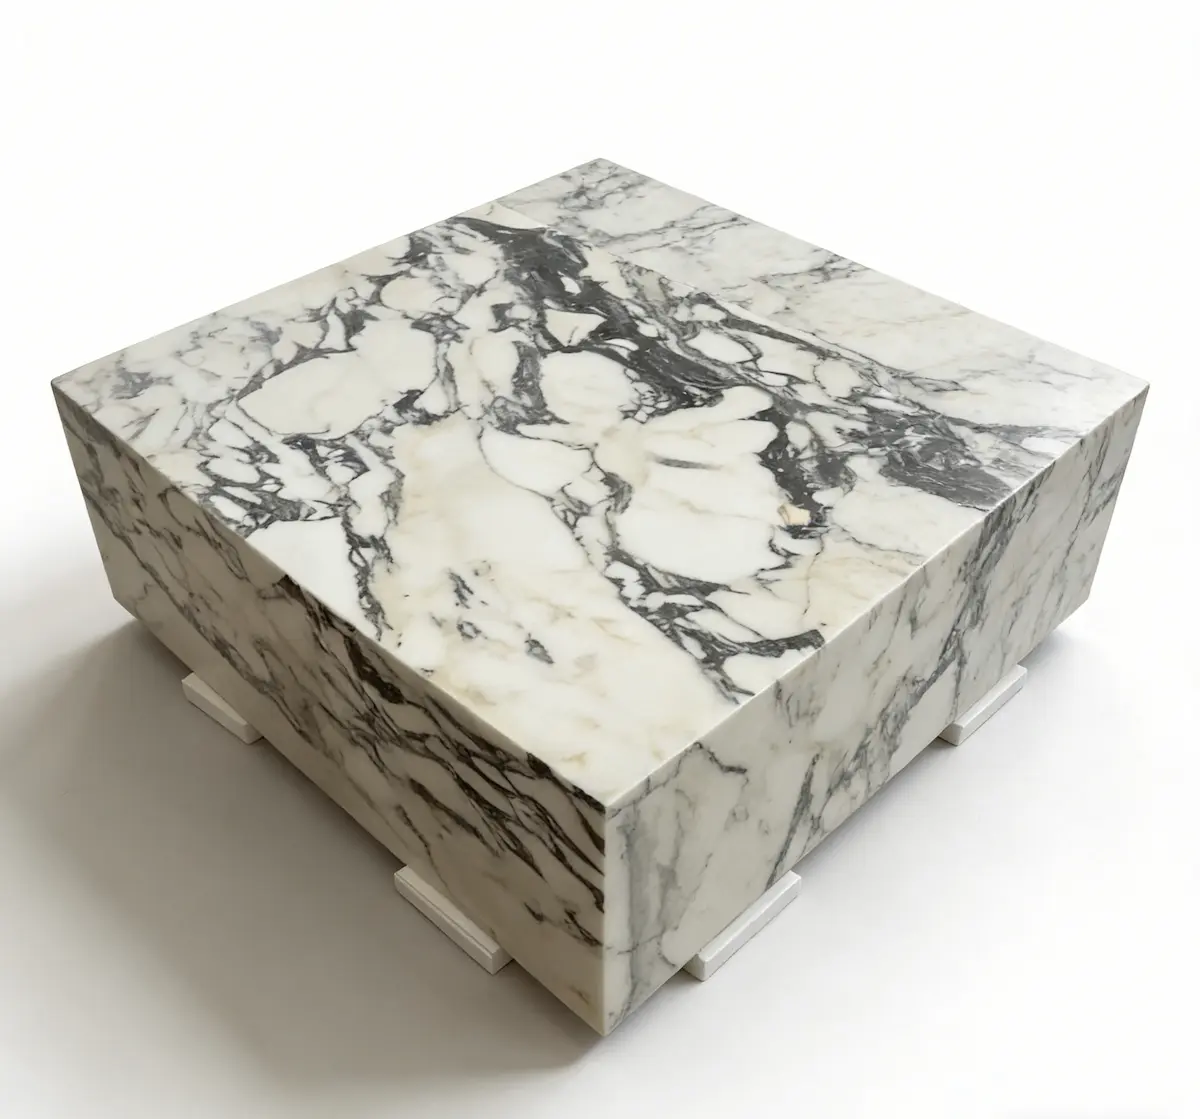
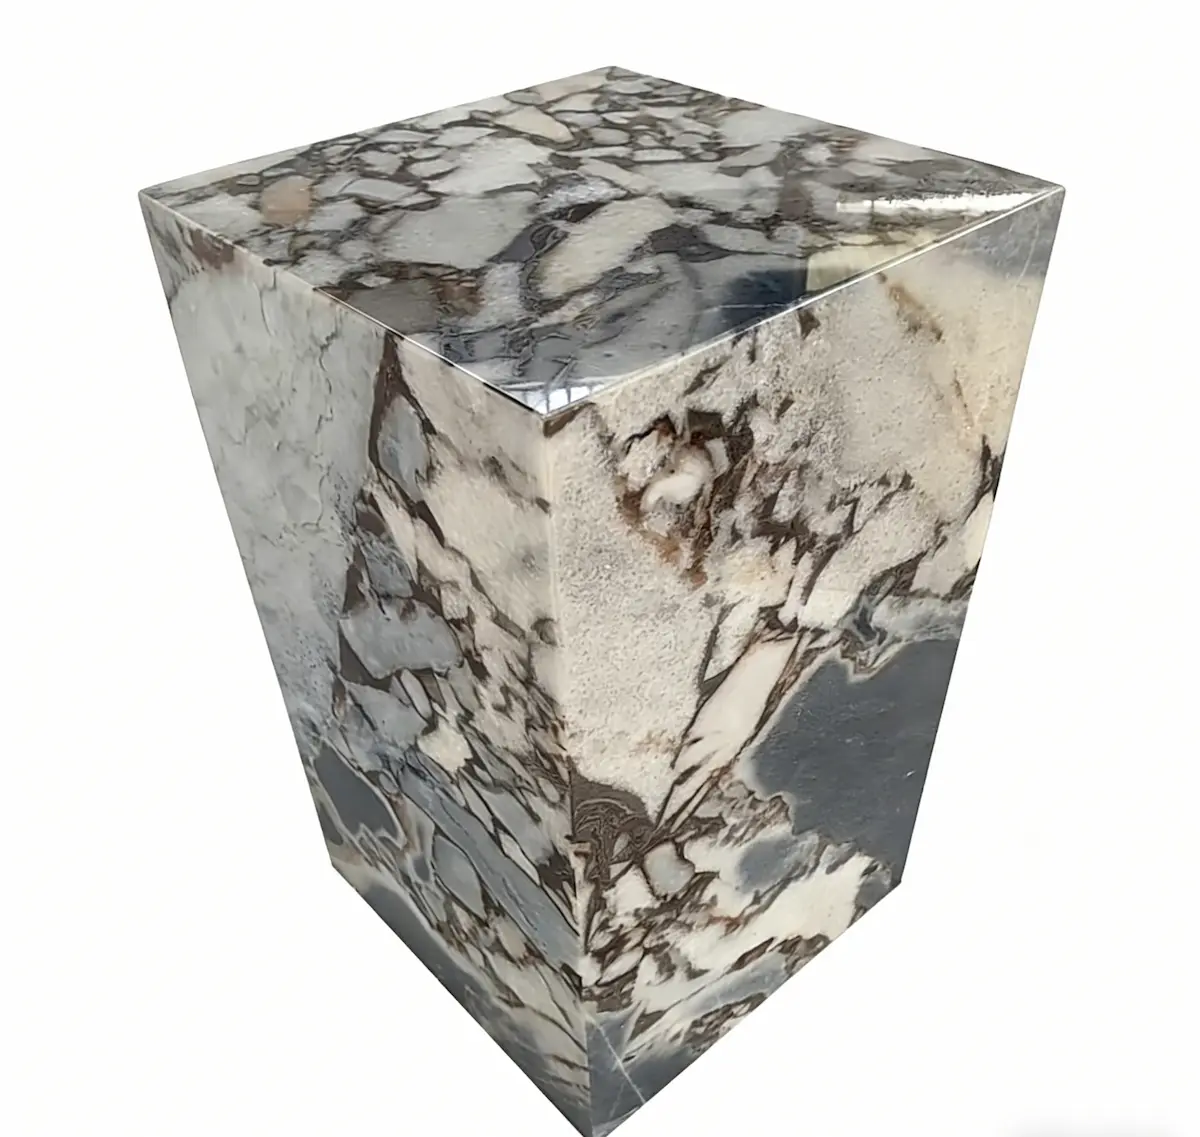
Add Google Search Console verification

diff --git a/src/content/blog/how-to-choose-the-right-stone-for-a-custom-bathroom-sink.md b/src/content/blog/how-to-choose-the-right-stone-for-a-custom-bathroom-sink.md
@@ -82,7 +82,7 @@ alt="Marble"
 <div class="material-info">
 
 <h3>
-<a href="/materials/marble/">
+<a href="/materials/">
 Marble
 </a>
 </h3>
@@ -107,7 +107,7 @@ alt="Travertine"
 <div class="material-info">
 
 <h3>
-<a href="/materials/travertine/">
+<a href="/materials/">
 Travertine
 </a>
 </h3>
@@ -131,7 +131,7 @@ alt="Quartzite"
 <div class="material-info">
 
 <h3>
-<a href="/materials/quartzite/">
+<a href="/materials/">
 Quartzite 
 </a>
 
@@ -152,7 +152,7 @@ alt="Onyx"
 <div class="material-info">
 
 <h3>
-<a href="/materials/onyx">
+<a href="/materials/">
 Onyx
 </a>
 <p>

diff --git a/src/content/blog/marble-vs-travertine-for-bathroom-sinks.md b/src/content/blog/marble-vs-travertine-for-bathroom-sinks.md
@@ -107,7 +107,7 @@ Travertine is often selected for projects that emphasize natural materials and u
 ## Marble vs Travertine Appearance Comparison
 
 ### Marble
-<a href="/materials/marble/">
+<a href="/materials/">
 Marble
 </a> typically creates a more dramatic and luxurious visual effect.
 
@@ -116,7 +116,7 @@ Characteristics: Bold veining / High visual contrast/Polished luxury appearance/
 Best for: Luxury residences/Boutique hotels/Premium powder rooms
 
 ### Travertine
-<a href="/materials/travertine/">
+<a href="/materials/">
 Travertine
 </a> creates a softer and more architectural atmosphere.
 

diff --git a/src/content/products/stone-tables/modernism-cream-travertine-coffee-table-set.md b/src/content/products/stone-tables/modernism-cream-travertine-coffee-table-set.md
@@ -38,7 +38,7 @@ keyFeatures:
 
   - title: Luxury Project Ready
     description: >
-      Whether placed in a luxury villa, boutique hotel, spa bathroom, or premium residential interior, our bespoke stone side tables elevate the space with timeless elegance and natural beauty.
+      Whether placed in a luxury villa, boutique hotel, or premium residential interior, our bespoke stone side tables elevate the space with timeless elegance and natural beauty.
 
   - title: OEM & Global Support
     description: >